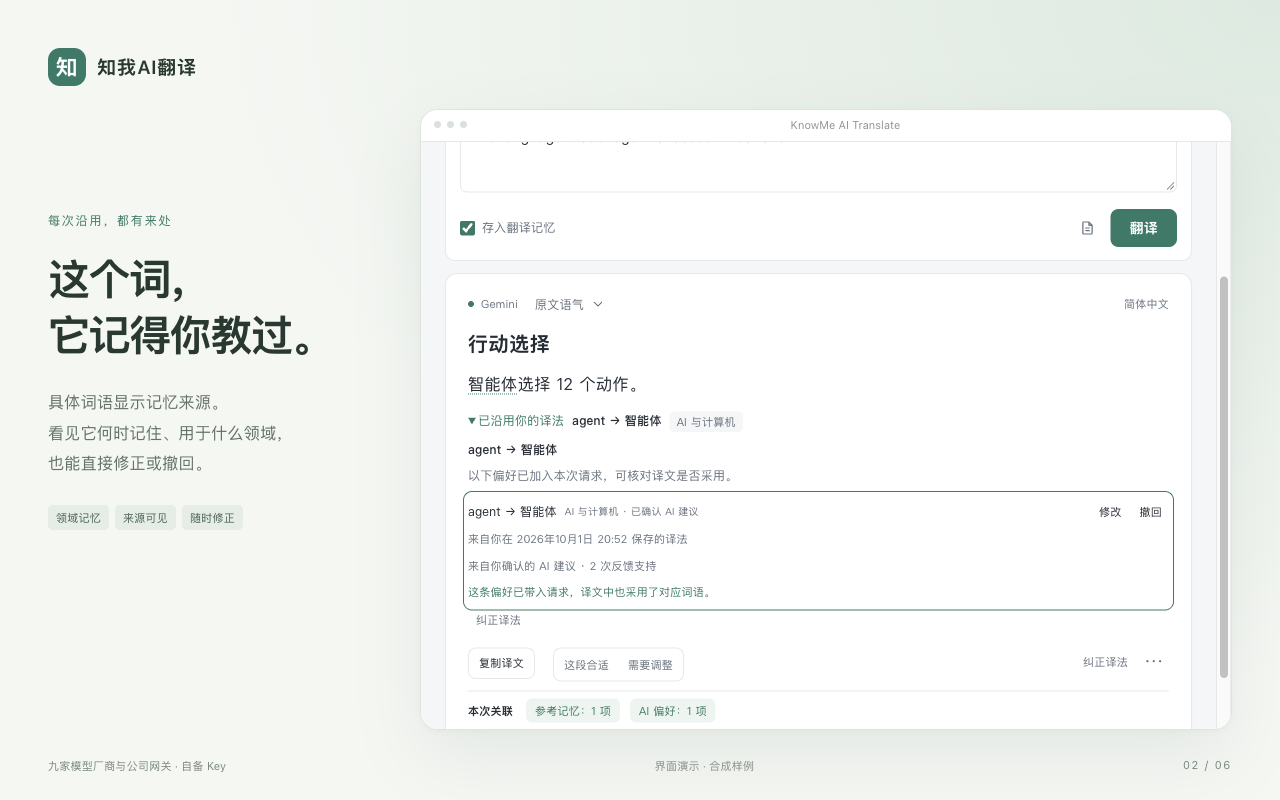
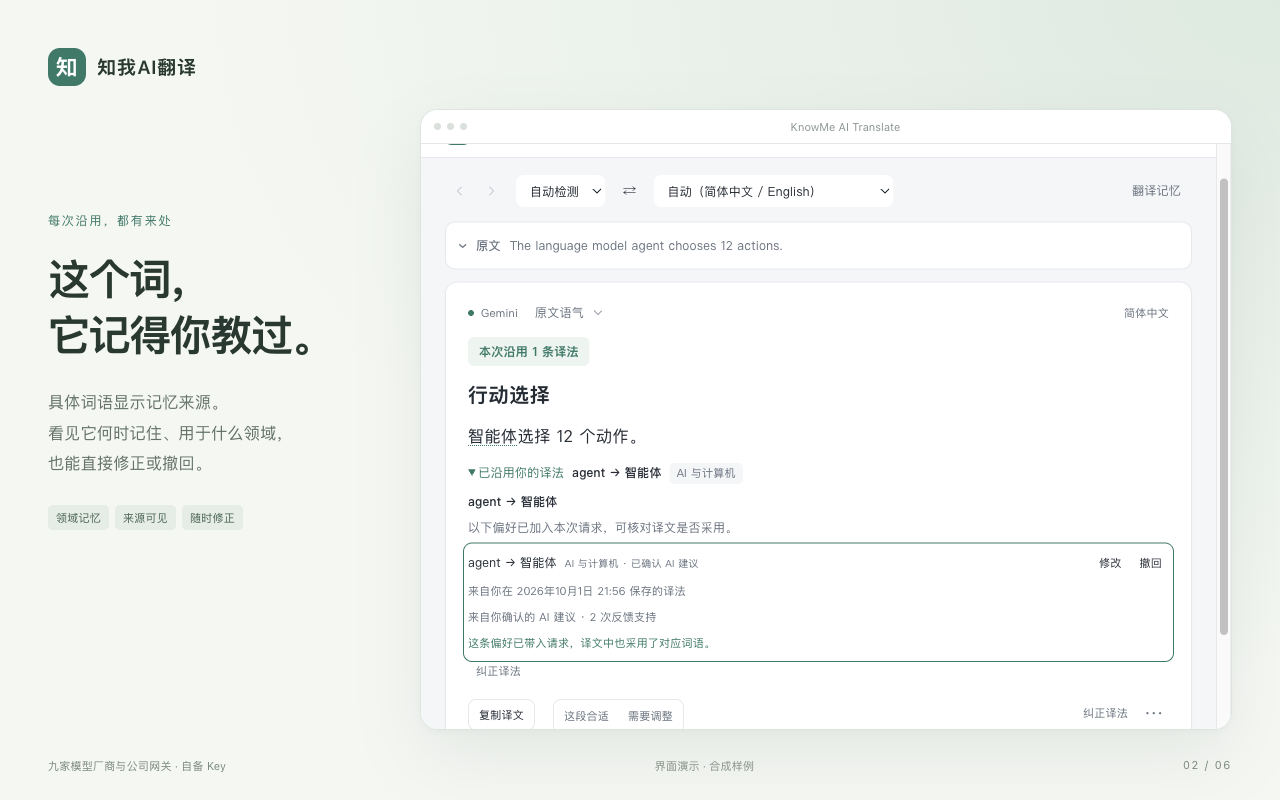
Update KnowMe 2.5.0 guides and screenshots; retain Radar 1.0.2 policy

diff --git a/privacy.html b/privacy.html
@@ -1,5 +1,5 @@
 <!doctype html><html lang="zh-CN"><head><meta charset="utf-8"><meta name="viewport" content="width=device-width,initial-scale=1"><title>知我AI翻译 · 隐私说明</title><link rel="icon" href="icon.svg" type="image/svg+xml"><link rel="stylesheet" href="site.css"></head><body><header><a href="index.html">知我AI翻译</a><a href="help.html">使用说明</a><a href="privacy.html">隐私说明</a><a href="#english" lang="en">English</a></header><main><h1>知我AI翻译隐私说明</h1>
-<p>版本：2.4.2；更新日期：2026-10-01。开发者发布名：ZhuoCs。</p>
+<p>版本：2.5.0；更新日期：2026-10-01。开发者发布名：ZhuoCs。</p>
 <p>知我AI翻译（KnowMe AI Translate）使用你提供的 所选 AI 厂商的 API Key 或你获准使用的兼容服务。没有开发者运营的翻译代理、账号系统、广告、统计或分析服务，不将数据发送给扩展开发者。</p>
 <p>本扩展按 Chrome Web Store 用户数据政策的 Limited Use 用途限制处理信息：只用于这里说明的翻译、阅读、缓存和用户控制的偏好功能，不出售数据，不用于广告、征信或无关用途；开发者没有读取你的译文或个人记忆的后台。向你选择的服务传输，仅为完成你启用的相应功能。</p>
 <h2>翻译请求</h2>
@@ -17,6 +17,7 @@
 <p>译文缓存新安装默认开启、保留 30 天，可设置 1–365 天，最多 500 条 / 约 6 MiB；已有用户沿用已有设置。包含成功的原文、译文、语言、生成时间和当时的偏好来源。按生成时间过期，命中不续期；过期记录不复用，后续写入时清理。</p>
 <p>个人记忆由你明确保存的修正、表达选择或确认的 AI 建议建立。最多 100 个术语版本、40 个表达习惯版本、200 条变更记录、12 个自定义领域。每项保留适用范围、最多 12 个上下文词和最多 30 个使用摘要；按服务账号、语言、场景及领域匹配。领域判断、匹配、数字核对在本机完成，不调用分类或评审模型。个人译法不随缓存过期。</p>
 <p>相关阅读在本机匹配共同术语、代码或引用标识，最多向当前界面显示三条相关片段；点击后可取回相应完整记录。它不上传历史、不额外请求模型。忽略的关系最多保存 150 个摘要，可关闭相关阅读或随缓存清空。</p>
+<p>设置中的演化记录仅组织上述本机数据，最多显示最近 40 条分支、每条 8 段仍保留的后续译文。展开不新增联网或调用模型，不延长原有保留期。</p>
 <h2>反馈与 AI 建议</h2>
 <p>选择“这段合适”“需要调整”后点击“确认反馈”，或保存明确术语修正时，才建立反馈记录。普通阅读、复制、无操作和缓存命中都不视为认可。最多保存 60 段反馈，包含有限原文/译文片段、类型、时间、语言、场景、领域和去重摘要；原文片段最多 1,000 字符、译文最多 1,400 字符。反馈及其证据片段最多保留 90 天，过期不用于建议，后续写入时清理。</p>
 <p>点击“生成建议 · 1 次 AI 请求”，或主动勾选并保存“积累反馈后自动生成建议”，允许将少量反馈片段发送给当前已配置的服务。自动建议默认关闭。只有同一语言、场景和领域中至少三段不同反馈、其中至少两段合适或已纠正时才可整理；每次最多六段。完整输入（指令及片段）最多 8 KiB；请求指定最多 1,024 个输出 token，本机接受回复最多 6,000 字符；20 秒超时，不自动重试。主动与自动共用每个连接每 24 小时一次的额度。失败、停止、无建议的尝试也计入额度，服务可能仍收费；这些上限不保证提供方的内部 token 计费。</p>
@@ -37,7 +38,7 @@
 <p>隐私问题请通过 Chrome 网上应用店中 ZhuoCs 的联系入口提出。新增数据用途前会更新本说明并提供相应控制。</p>
 <hr>
 <h1 id="english" lang="en">KnowMe AI Translate — Privacy</h1>
-<p>Version 2.4.2, updated October 1, 2026. Publisher: ZhuoCs.</p>
+<p>Version 2.5.0, updated October 1, 2026. Publisher: ZhuoCs.</p>
 <p>KnowMe uses your selected AI provider’s key or an authorized compatible service. There is no developer translation proxy, account service, advertising or analytics. Data is not sent to the extension developer.</p>
 <p>KnowMe's use of information follows the Limited Use restrictions of the Chrome Web Store User Data Policy: only the disclosed translation, reading, caching and user-controlled preference features use it. Data is not sold or used for advertising, credit decisions or unrelated purposes. The developer has no backend for reading translations or personal memory. Transfers to your chosen services serve only the corresponding features you enable.</p>
 <p>Selected, pasted, typed or explicitly opened text, translation instructions, language/profile choices and matching personal preferences are sent by HTTPS to your configured provider. The default selection mode shows a button first; direct mode sends on selection. Requests allow up to 20,000 source characters and a shared 512-byte personalization addition. The provider receives your key for authentication and may retain requests or charge under its own terms. KnowMe does not collect browsing history, account passwords or unselected full-page content for translation.</p>
@@ -70,4 +71,5 @@
 <p>Temporary rate-limit state: session storage holds up to 12 connection hashes, wait types and expiry times. These entries contain no source, translation or plaintext key, are not sent to the developer, and end with the browser session.</p>
 <h2>Optional clipboard access</h2>
 <p>Paste and translate requests the optional clipboardRead permission on an explicit click. Translation shortcuts use selected text first; without a selection they read the clipboard once only after permission has been granted, then translate through your configured service. There is no clipboard polling, background collection or automatic change listener. Revoke permission in Chrome to stop this access; manual paste remains available.</p>
-</main><footer>知我AI翻译 2.4.2 · 发布者 ZhuoCs</footer></body></html>
+<p>Evolution history reads the existing local records only, showing at most 40 branches and 8 retained later translations per branch. Opening it sends no network or model request and does not extend retention.</p>
+</main><footer>知我AI翻译 2.5.0 · 发布者 ZhuoCs</footer></body></html>

diff --git a/index.html b/index.html
@@ -11,4 +11,4 @@
 <figure><a href="screenshot-05-cache.png"><img src="screenshot-05-cache.png" alt="同样的请求复用本机译文，显示未重复调用模型" loading="lazy" width="1280" height="800"></a><figcaption>05 / 精确缓存与个人偏好独立管理。</figcaption></figure>
 <figure><a href="screenshot-06-onboarding.png"><img src="screenshot-06-onboarding.png" alt="可跳过的快速入门，无需本机口令" loading="lazy" width="1280" height="800"></a><figcaption>06 / 连接你的模型，从一次小纠正开始。</figcaption></figure></div><section class="principles" id="control"><article><h3>记住什么，由你确认</h3><p>复制不是认可。只有明确反馈、修正与确认形成偏好。建议显示依据，未经确认不改变翻译。</p></article><article><h3>少带一点，够用就好</h3><p>普通翻译只附带少量相关偏好，不发送完整历史。AI 归纳是独立、有限额的可选请求；翻译优先。</p></article><article><h3>始终能改，也能忘记</h3><p>个人译法可以修正、暂停或删除；反馈和缓存独立清理，个人译法可备份迁移。Key 与记忆在本机浏览器普通保存，不同步到 Google 账号；翻译发送到你选择的服务。</p></article></section>
 <section class="start" id="start"><h2>沿用你的服务，开始阅读</h2><div class="steps"><span>01 打开知我图标的齿轮设置</span><span>02 选择厂商，填写模型与 Key</span><span>03 测试连接，按需启用划词</span></div><p>已有本地版本：在 Chrome 扩展管理页重新加载知我，再刷新阅读网页。首次选择厂商、填写 Key，保存并测试后即可使用。可选快速入门带你体验：翻译一段、保存一个词、在新段落查看沿用来源。反馈先选择、再确认；原文框可随时编辑。AI 自动建议默认关闭，可在设置中选择开启。</p></section>
-<section class="scope"><p>支持 OpenAI、Google、Anthropic、Moonshot、Zhipu、ByteDance、DeepSeek、Alibaba Cloud、xAI 与公司兼容网关。模型可用性取决于你的账号；暂不包含 OCR、整份 PDF 上传、云端同步或付费套餐。扩展目前不收费，模型服务可能另行收费。</p><p>个人适应改进的是有限翻译偏好，不训练模型权重或修改应用代码。领域匹配和局部核对有边界，不保证翻译永远正确。展示图来自当前界面，使用标明的合成样例；不作为模型质量或速度的实测结果。</p></section></main><footer><span>知我AI翻译 · KnowMe AI Translate<br>独立开发的翻译工具。</span><span>知我AI翻译 2.4.2 · 发布者 ZhuoCs<br><a href="privacy.html">隐私说明</a> · <a href="help.html">使用说明</a></span></footer></body></html>
+<section class="scope"><p>支持 OpenAI、Google、Anthropic、Moonshot、Zhipu、ByteDance、DeepSeek、Alibaba Cloud、xAI 与公司兼容网关。模型可用性取决于你的账号；暂不包含 OCR、整份 PDF 上传、云端同步或付费套餐。扩展目前不收费，模型服务可能另行收费。</p><p>个人适应改进的是有限翻译偏好，不训练模型权重或修改应用代码。领域匹配和局部核对有边界，不保证翻译永远正确。展示图来自当前界面，使用标明的合成样例；不作为模型质量或速度的实测结果。</p></section></main><footer><span>知我AI翻译 · KnowMe AI Translate<br>独立开发的翻译工具。</span><span>知我AI翻译 2.5.0 · 发布者 ZhuoCs<br><a href="privacy.html">隐私说明</a> · <a href="help.html">使用说明</a></span></footer></body></html>

diff --git a/help.html b/help.html
@@ -102,4 +102,12 @@
 <h2>Problems and control</h2>
 <p>HTTP 429 may mean a rate limit or exhausted quota; use the service's error details and Retry-After. Expiry of a wait enables a manual retry only. Ordinary translation times out after 90 seconds. Network delay and generation speed are separate measurements.</p>
 <p>The UI defaults to Chinese with English and browser-language options. Themes follow the system unless specified. KnowMe is independent from model providers; third-party licenses ship with the extension.</p>
-</main><footer>知我AI翻译 2.4.2 · 发布者 ZhuoCs</footer></body></html>
+<h2>更少配置，清楚的记忆反馈</h2>
+<p>选择厂商、粘贴 API Key 后，点击“保存并测试连接”。官方地址与推荐模型已填好；自定义网关、其他模型和地域地址仍可在“连接选项”修改。推荐不代表账号必有权限。默认自动中英互译。</p>
+<p>译文顶部“本次沿用 N 条译法”只统计请求带入且实际出现在正文中的个人词语；悬停下划线查看来源、保存时间和领域。模型自行给出相同译法不算记忆沿用。</p>
+<p>精确缓存命中显示“已复用本机缓存 · 0 次请求 · 用时 x ms”；该用时属于本次本机查询，不是历史模型速度。</p>
+<p>设置中的“演化记录”按分支显示已有反馈、AI 建议、采用或撤回、以及仍保留的后续译文。点节点看证据，点相应操作撤回；删除历史后一分钟内可恢复。最多展示最近 40 条偏好/建议，每条最多 8 段近期译文。展开视图不联网、不生成新建议。风格只标为“参考”，不声称证明了表达变化。</p>
+<h3>Memory feedback and local evolution</h3>
+<p>Choose a provider and paste your API key; an official endpoint and suggested model are prefilled. Custom gateways, aliases and regional endpoints remain editable. Availability depends on your account.</p>
+<p>Applied-term underlines identify saved wording that was both included in the request and found in translated prose. Cache receipts show zero new requests and the local lookup time. Settings → Evolution history shows existing feedback, proposals, adoption or withdrawal, and retained later translations. Open a node for evidence or a reversible action. This view makes no model request and does not claim causality for style references.</p>
+</main><footer>知我AI翻译 2.5.0 · 发布者 ZhuoCs</footer></body></html>
